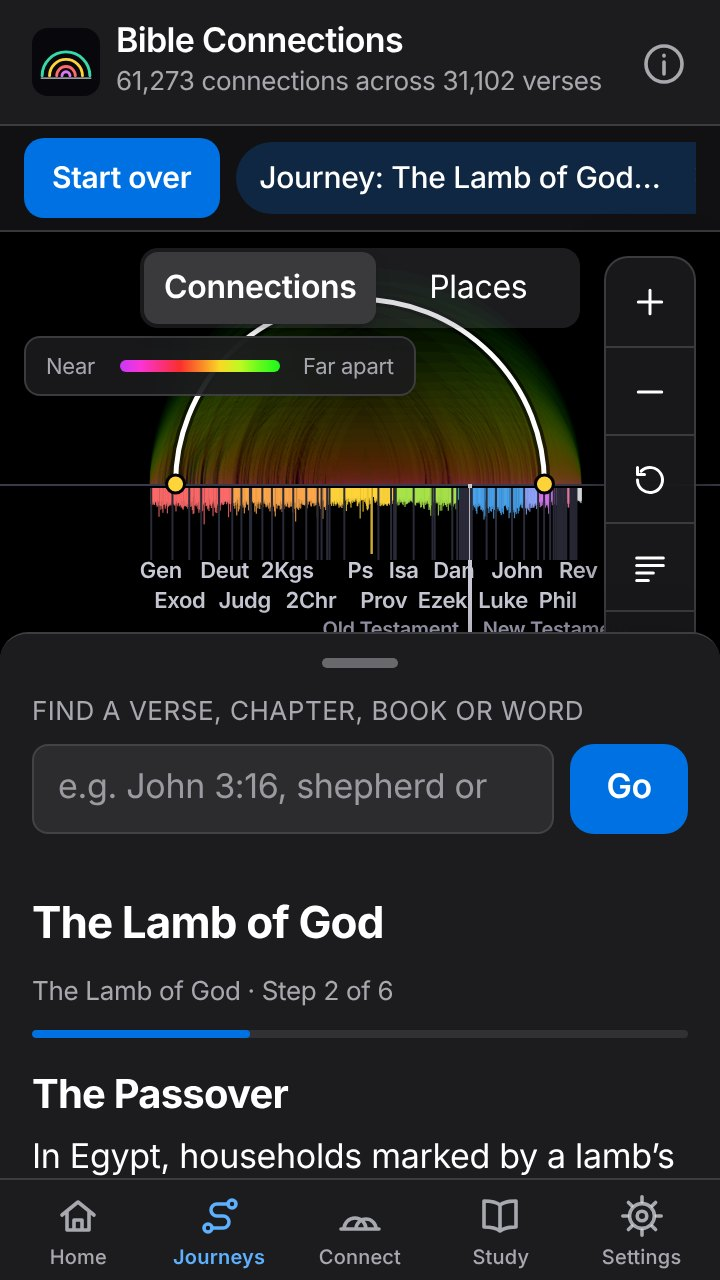
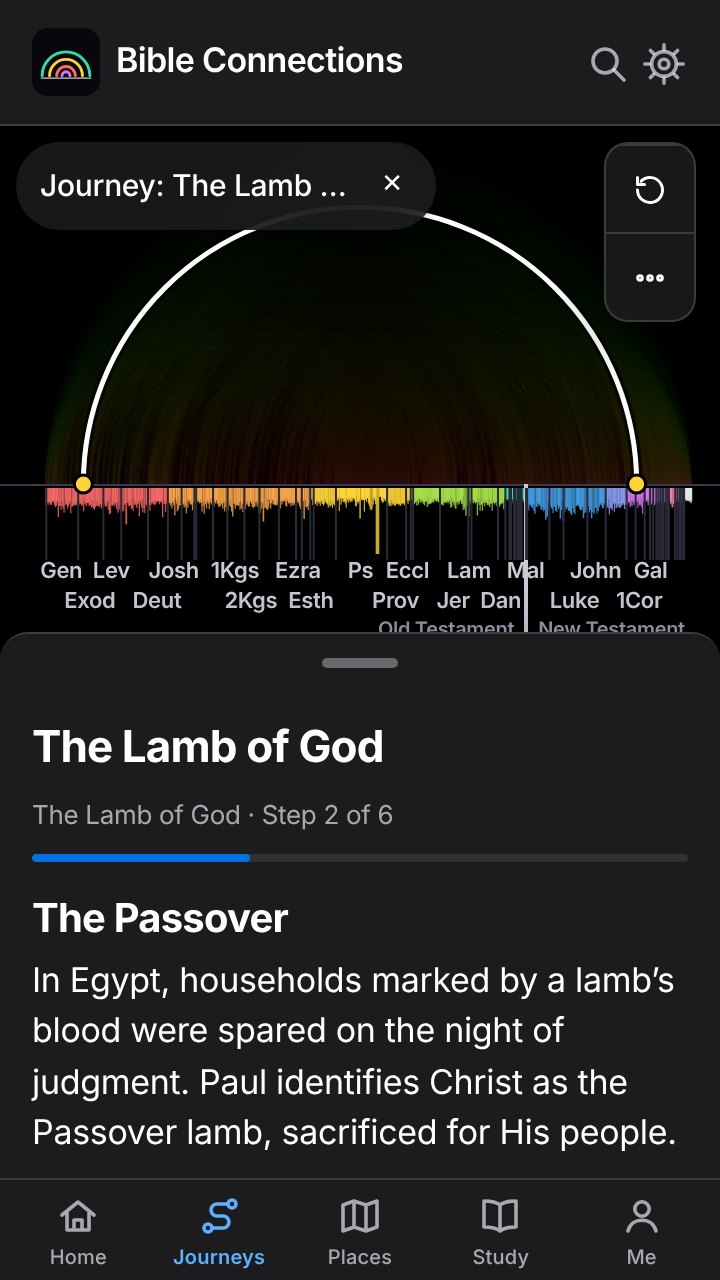
Docs: README for 0.18 to 0.20, guide steps for the phone tabs, fresh store and install screenshots

diff --git a/README.md b/README.md
@@ -29,7 +29,7 @@ Every arc joins two passages that point to each other, from Genesis on the left 
 <p>
   <a href="LICENSE"><img alt="Code license: Apache 2.0" src="https://img.shields.io/badge/code-Apache%202.0-blue?style=plastic"></a>
   <a href="LICENSE-CONTENT.md"><img alt="Content license: CC BY 4.0" src="https://img.shields.io/badge/content-CC%20BY%204.0-lightgrey?style=plastic"></a>
-  <img alt="Interface: English and Spanish" src="https://img.shields.io/badge/interface-English%20%7C%20Espa%C3%B1ol-orange?style=plastic">
+  <img alt="Interface: English, Spanish and Portuguese" src="https://img.shields.io/badge/interface-English%20%7C%20Espa%C3%B1ol%20%7C%20Portugu%C3%AAs-orange?style=plastic">
   <img alt="99 translations in 31 languages" src="https://img.shields.io/badge/translations-99%20in%2031%20languages-e8590c?style=plastic">
 </p>
 
@@ -43,13 +43,14 @@ No Bible translation is published on this site. Every passage links out to [Bibl
 
 ### Explore the map
 - **Map:** 199,275 cross references with a strength slider, zoom (scroll, pinch, buttons, keyboard) and pan. Uses WebGL where a graphics chip is available.
-- **Welcome page:** a picture of the full map with an Old and New Testament timeline, search, connection of the day, themes, the current sermon series and "pick up where you left off".
+- **Welcome page:** one clear first step, "Look up a verse", with verses to try and a guided journey as the other way in. The map picture explains itself: one verse's arcs light up across the Bible with a caption and three of its passages to open. Below: free, no account, no adverts; a Today row (your plan, the season's plan, connection of the day); feelings and themes; and "Made for you" cards for personal reading, small groups and church leaders.
 - **Connections:** tap any arc to see both passages and open them on Bible.com.
 - **Why it connects:** 362 short explanations for the strongest links, with a filter to show only explained connections.
 - **Search:** references (`John 3:16`, `Psalm 23`, `Juan 3:16`), words (`shepherd`), Hebrew or Greek (`ἀγάπη`) or Strong's numbers (`G26`), with suggestions as you type and help with misspelled book names.
 - **How are you feeling?** and **Surprise me** on the welcome page, for an easy way in.
 - **Keyboard shortcuts:** press `?` to see them all.
-- **Filters:** Old/New Testament, 10 categories, single books and 12 themes, with a "You're viewing" bar and Start over.
+- **Filters:** Show links (All, Old, New or Across the testaments), 10 categories, single books and 12 themes, with a "You're viewing" bar and Start over.
+- **Book at a glance:** open a book to see the books and verses it connects to most.
 - **Chronological view:** rearrange the books by when their events happen.
 - **How are these connected?:** the shortest chain of cross references between any two passages, animated on the map.
 - **Shared connections:** pick two passages and find the passages they both link to.
@@ -61,10 +62,10 @@ No Bible translation is published on this site. Every passage links out to [Bibl
 - **Chapter and book study:** key original words, places on a map, the book's introduction and reflection questions for any chapter or book.
 - **Prophecy and fulfilment:** 12 prophecies, 5 covenants and 6 symbols (lamb, shepherd, vine, temple, water, light), each followed from the Old Testament to the New as numbered stages on the map, with a short explanation of the kind of link (quotation, fulfilment, pattern or promise).
 - **Timeline:** 40 key events in order, from creation to Patmos, linked to their passages, places and the map.
-- **Places map:** a full view of its own, beside the connections map (switch with the Places tab, the Connections and Places control, or the M key). 1,277 places from OpenBible.info on an offline map you can drag, pinch and zoom, with dots sized by how often each place is named. It follows whatever is open: a chapter, verse, connection, journey step, person or topic lights up its places. Six journeys are drawn as routes with numbered stops: Abraham, the exodus, Paul's three journeys and his voyage to Rome.
+- **Places map:** a full view of its own, beside the connections map (switch with the Places tab, the Connections and Places control, or the M key). 1,277 places from OpenBible.info on an offline map you can drag, pinch and zoom, with dots sized by how often each place is named. It follows whatever is open: a chapter, verse, connection, journey step, person or topic lights up its places. Six routes are drawn with numbered stops: Abraham, the exodus, Paul's three journeys and his voyage to Rome.
 - **My notes:** private notes on any verse, kept on the device only, with export and import.
 - **Back up everything:** notes, saved items, collections, plan progress and settings in one file, restored on any device.
-- **Study hub:** 7 reading plans (including Advent, the twelve days of Christmas, Lent and Holy Week, each dated to the church calendar) with saved progress and calendar reminders, 56 people and places, 42 topics, a "Guess the connection" game for groups, insights and a printable poster.
+- **Study hub:** grouped into Read, Learn and Teach: 7 reading plans (including Advent, the twelve days of Christmas, Lent and Holy Week, each dated to the church calendar) with saved progress and calendar reminders, 56 people and places, 42 topics, a "Guess the connection" game for groups, insights and a printable poster.
 - **Connection of the day:** on the welcome page, and as a daily calendar and RSS feed. It follows Advent, the twelve days of Christmas, Lent and Holy Week in season, and the welcome page shows the current season's reading, or the next season when it is three weeks away.
 
 ### Read and listen
@@ -77,6 +78,7 @@ No Bible translation is published on this site. Every passage links out to [Bibl
 - **Share a verse study as an image:** a ready-made picture with the reference, original words, connections and a question.
 - **Printable handouts:** for any journey, and for any verse (book introduction, original words, strongest connections, reflection questions and space for notes).
 - **Sermon series:** show the current series passages on the welcome page.
+- **For churches:** a page gathering every tool for pastors and group leaders ([churches.html](https://bibleconnections.app/churches.html)).
 - **Church page:** any church can make a page for its sermon series in Study, with this week's passage first, links to read each passage on Bible.com and see its connections, and embed code for its website. Everything is kept in the link, with no sign-up.
 - **Collections:** group connections and verses for a sermon or small group and share them as one link.
 - **Collection slides:** show a collection as simple full-screen slides (title, one slide per item with its references, and a closing slide), moved with arrow keys, a clicker or a swipe, and printable as a PDF. References link to Bible.com; no translation text is shown.
@@ -84,15 +86,20 @@ No Bible translation is published on this site. Every passage links out to [Bibl
 - **Community notes:** a "Suggest a note" link on any connection without one opens a ready-made GitHub form.
 - **Report a weak link:** flag a connection that seems loose with a ready-made GitHub form, or hide it on your own device. Label a report `approved` on GitHub and a workflow opens a pull request that adds it to `site/content/weak-links.json`, which hides it for everyone once merged.
 
+### Reference pages
+- **Book and verse pages:** a page for each of the 66 books ([books](https://bibleconnections.app/books/)) and for the 1,000 most connected verses (for example [John 3:16](https://bibleconnections.app/verse/john-3-16/)), with their strongest connections and the Hebrew or Greek text. Built from the map data by `scripts/static-pages.mjs`.
+- **[How many cross references are in the Bible?](https://bibleconnections.app/cross-references/)** The full count, how it splits between the testaments, and why sources differ.
+- **Search engines and AI assistants:** sitemap with language versions, [llms.txt](https://bibleconnections.app/llms.txt) and link previews ([docs/SEO.md](docs/SEO.md)).
+
 ### For everyone
 - **Kids mode:** bigger text, simpler words and journeys written for children.
 - **Spanish and Portuguese:** the full interface, journeys, plans, book introductions, questions, prophecy, timeline, handouts and guides in both languages, chosen automatically from the device. Search understands book names in all three languages.
 - **Settings:** language, light, dark or system appearance, five arc color styles (including a color-blind friendly one), text size, an easier-to-read font, high contrast mode and Bible.com translations.
 - **Gentle animations on desktop:** the welcome page eases in, and a light travels along each connection you select. Off for reduced motion, and switchable in Settings.
-- **Made for phones:** the details slide up from the bottom as a sheet you can drag, like the Maps app, with the map filling the space above. A Back button steps back through what you opened, search also lists matching people, places, topics, words and journeys, verse sections open and close, and deleting something can be undone.
+- **Made for phones:** tabs for Home, Journeys, Places, Study and Me (notes, collections, plans, saved items and settings). The details slide up from the bottom as a sheet you can drag, like the Maps app, and the map keeps most of the screen. A verse's arcs fan out across the whole Bible, you can slide a finger along the books to pick a chapter, and swipe the details sideways for the next step or connection. A Back button steps back through what you opened, search also lists matching people, places, topics, words and journeys, verse sections open and close, and deleting something can be undone.
 - **Easy tapping on phones:** where several arcs lie close together, a short list lets you pick the one you meant.
 - **Saved and recent:** save items and see recently viewed, stored on the device only.
-- **Fast first load:** the welcome page loads about half as much as before, with the cross references packed into a smaller file and study text fetched only when needed.
+- **Fast first load:** the cross references are packed into a small file, a picture of the map shows while it loads, and the Hebrew and Greek, dictionary and places load only when needed (a shared verse link downloads about 1.4 MB).
 - **Installable and offline:** works as an app and without a connection after the first visit. Studied passages are saved as you go, and **Save for offline** downloads all the original language text, word studies and places at once (Bible.com links still need the internet).
 - **Accessible:** keyboard support, screen reader announcements, list alternatives to the map, 44px touch targets, reduced motion support, tested with axe in both languages and themes.
 
@@ -105,7 +112,10 @@ No Bible translation is published on this site. Every passage links out to [Bibl
 - [Growing the reach of the project](docs/PROMOTION.md)
 - [Content review packet for pastors](docs/THEOLOGY-REVIEW.md)
 - [Portuguese: plan and progress](docs/PORTUGUESE.md)
-- [Google Play: plan](docs/PLAY-STORE.md)
+- [Google Play: plan](docs/PLAY-STORE.md) and [store listing drafts](docs/store/)
+- [Search engines](docs/SEO.md)
+- [For churches](https://bibleconnections.app/churches.html)
+- [Privacy](https://bibleconnections.app/privacy.html)
 
 ## Contributing
 
